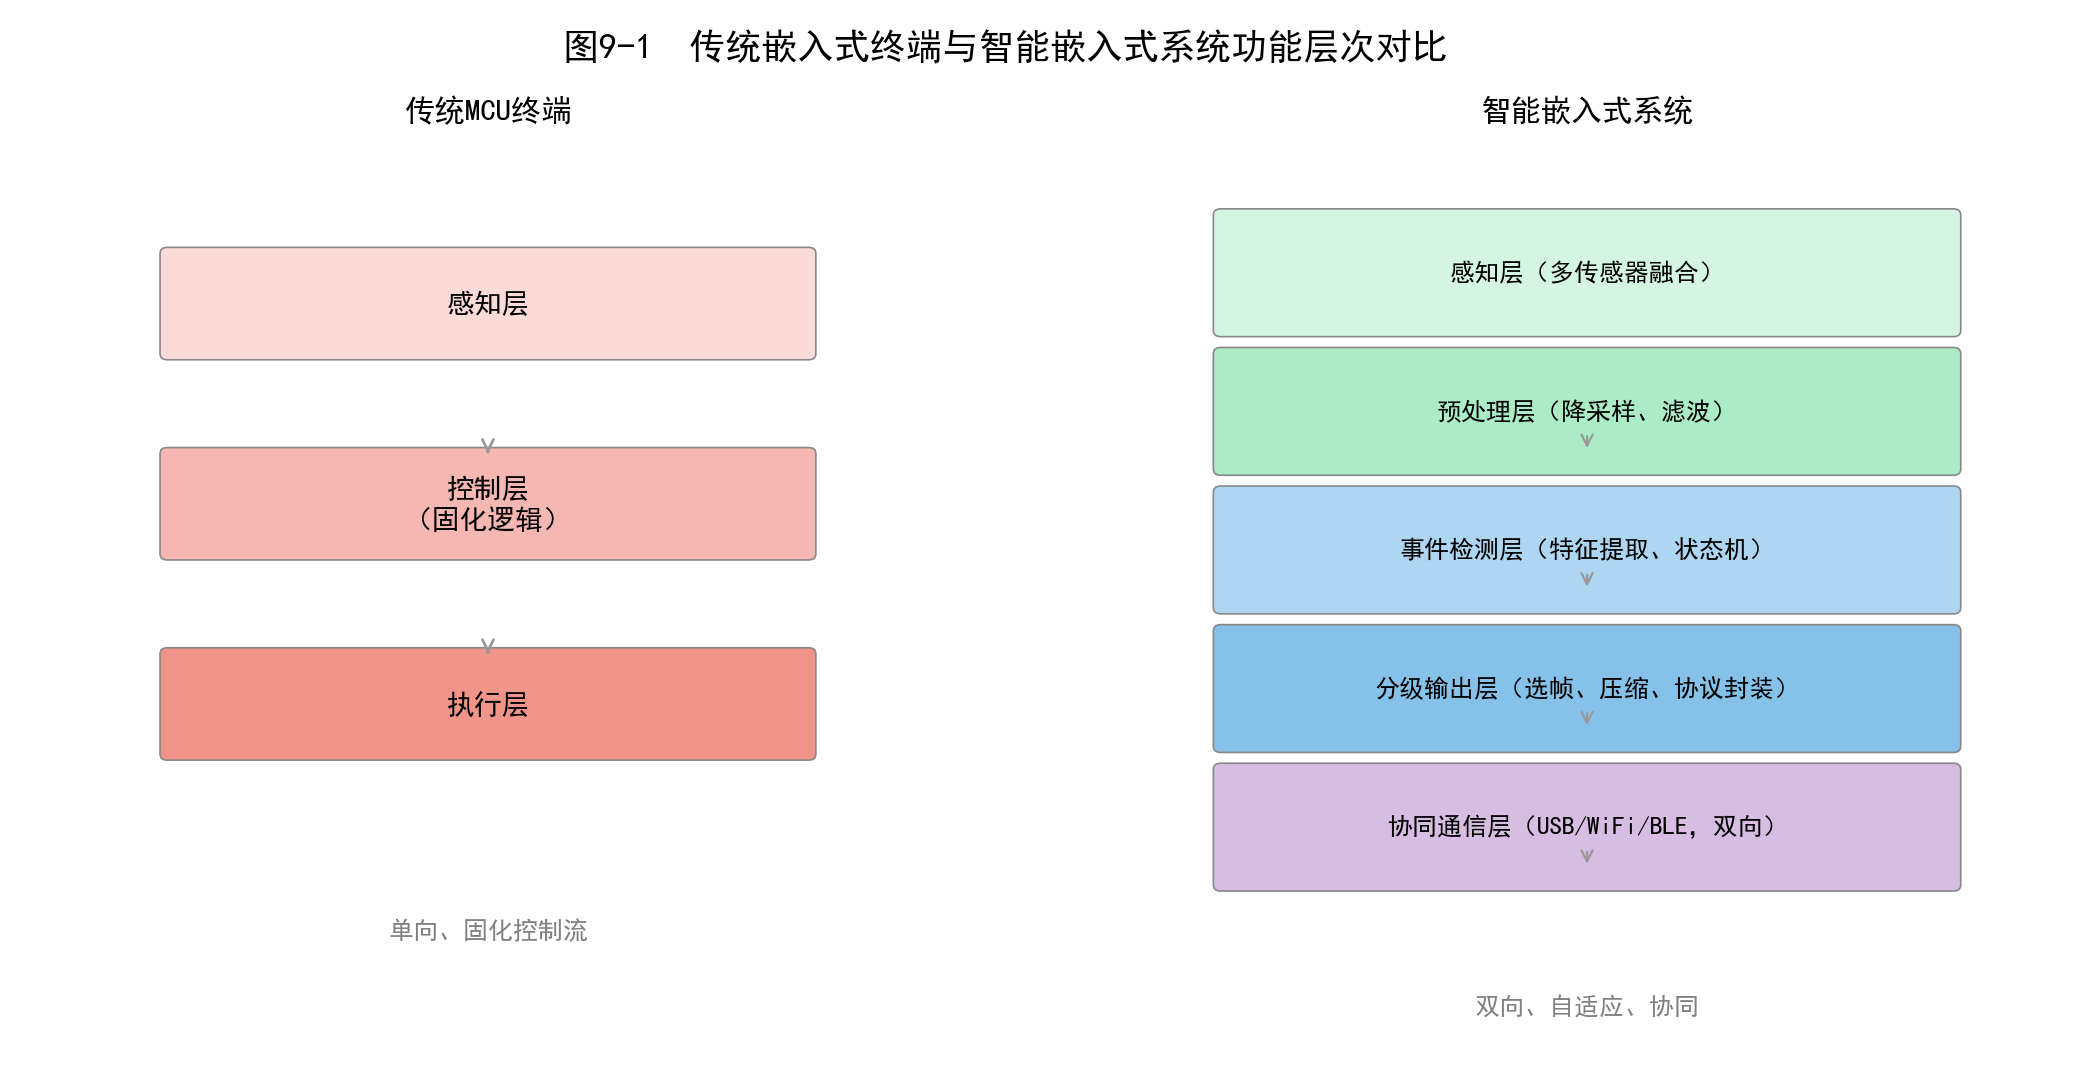
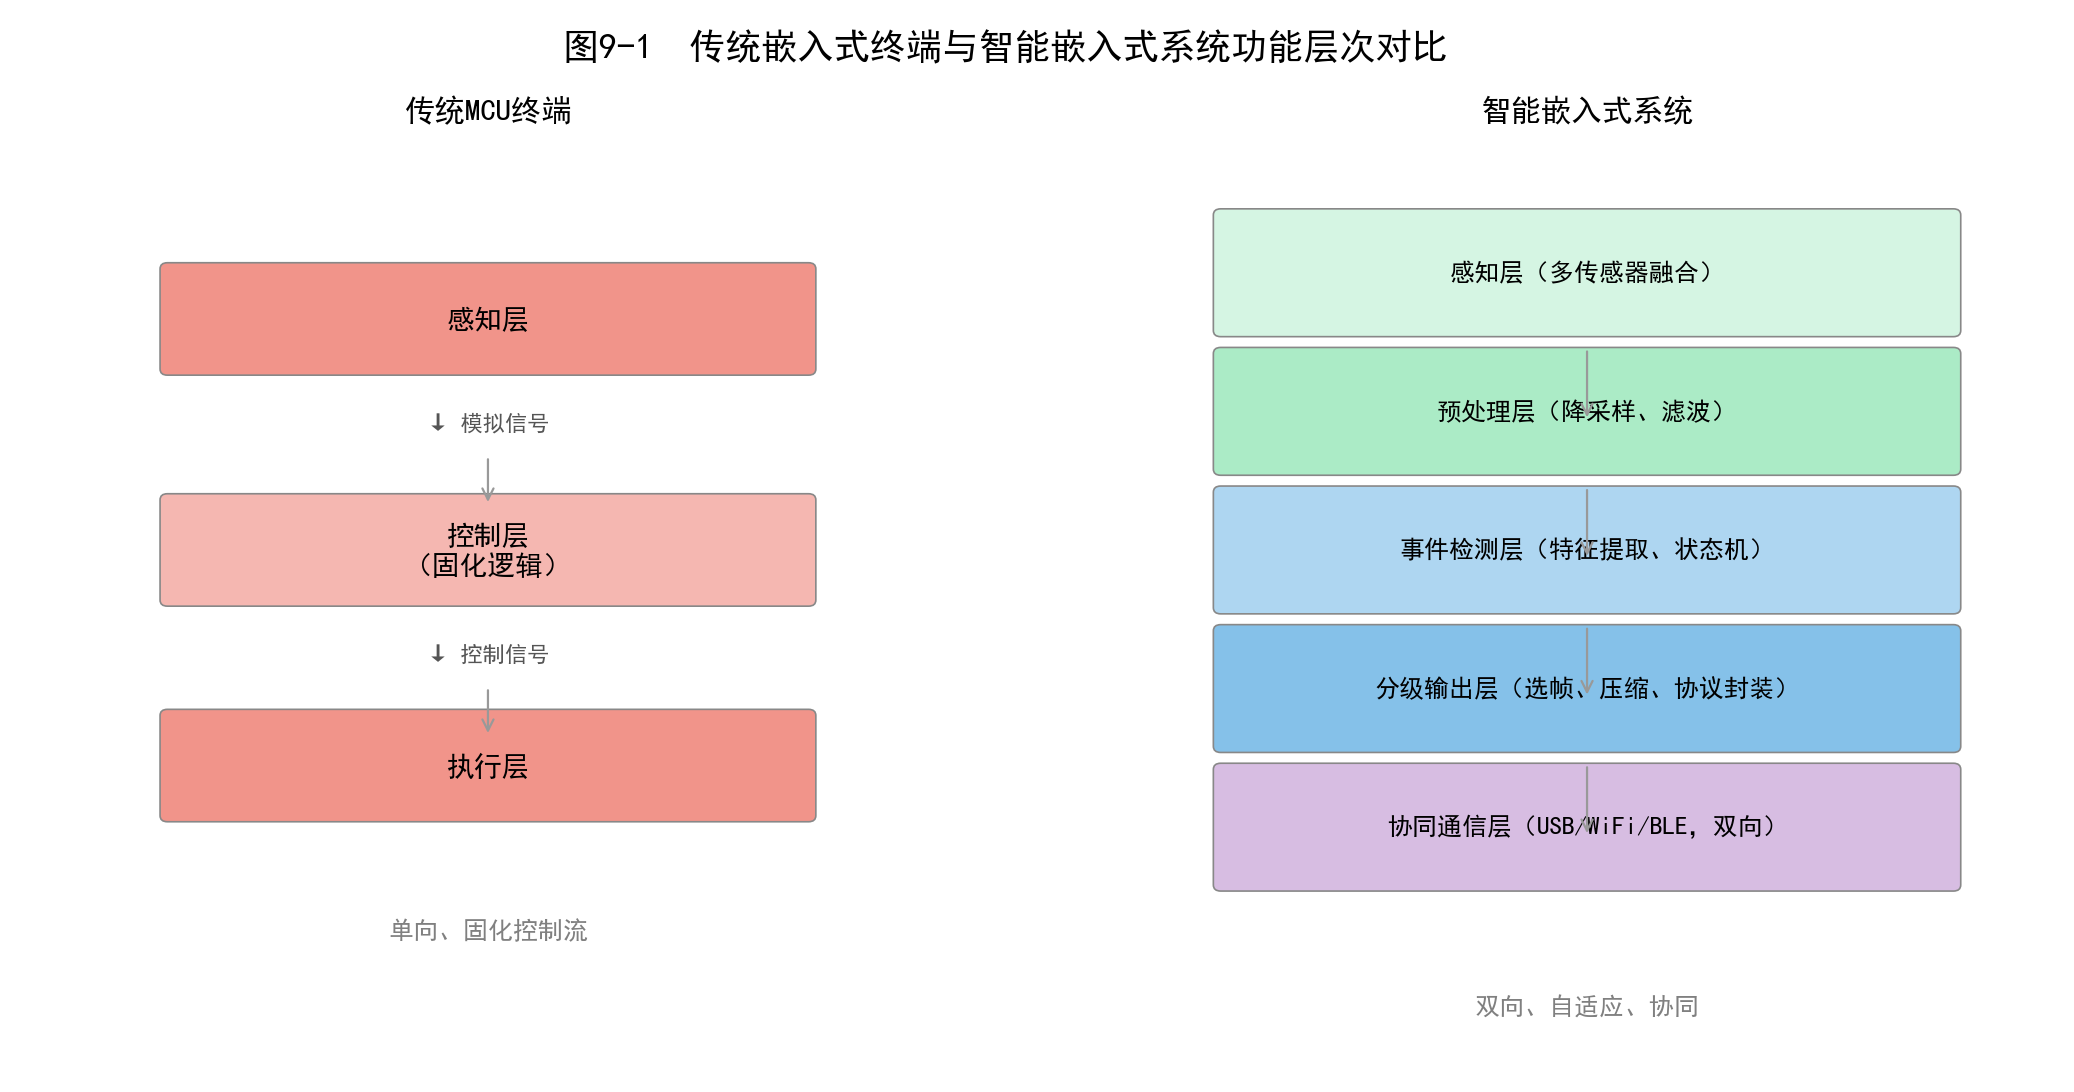
修复：图9-1还原v1层间箭头版本、图9-4 DSI标签可见性、图9-5箭头定位

diff --git a/tools/generate_figures.py b/tools/generate_figures.py
@@ -56,7 +56,7 @@ def arrow_right(ax, x1, x2, y, color="#555555", lw=1.0):
 
 
 # ============================================================
-# 图9-1 功能层次对比 — 保持良好，微调
+# 图9-1 功能层次对比 — 还原v1版本（带层间箭头标注）
 # ============================================================
 def fig_9_1():
     fig, (ax_l, ax_r) = plt.subplots(1, 2, figsize=(13, 6))
@@ -65,27 +65,31 @@ def fig_9_1():
     # 左侧
     ax_l.set_xlim(0, 10); ax_l.set_ylim(0, 12); ax_l.axis("off")
     ax_l.set_title("传统MCU终端", fontsize=11, weight="bold", pad=6)
-    items_l = [("感知层", 9.2, "#FADBD8"), ("控制层\n（固化逻辑）", 6.6, "#F5B7B1"), ("执行层", 4.0, "#F1948A")]
-    for txt, y, c in items_l:
-        box(ax_l, 1.5, y, 7, 1.3, txt, color=c, fontsize=10, bold=True)
-    arrow_down(ax_l, 5, 8.0, 7.9, "#999", 1.0)
-    arrow_down(ax_l, 5, 5.4, 5.3, "#999", 1.0)
+    # v1 原版：层间有箭头文字标注
+    box(ax_l, 1.5, 9, 7, 1.3, "感知层", color="#F1948A", fontsize=10, bold=True)
+    ax_l.text(5, 8.2, "↓ 模拟信号", ha="center", fontsize=8, color="#555")
+    arrow_down(ax_l, 5, 7.9, 7.2, "#999", 0.8)
+    box(ax_l, 1.5, 6, 7, 1.3, "控制层\n（固化逻辑）", color="#F5B7B1", fontsize=10, bold=True)
+    ax_l.text(5, 5.2, "↓ 控制信号", ha="center", fontsize=8, color="#555")
+    arrow_down(ax_l, 5, 4.9, 4.2, "#999", 0.8)
+    box(ax_l, 1.5, 3.2, 7, 1.3, "执行层", color="#F1948A", fontsize=10, bold=True)
     ax_l.text(5, 1.6, "单向、固化控制流", ha="center", fontsize=9, color="gray", style="italic")
 
     # 右侧
     ax_r.set_xlim(0, 10); ax_r.set_ylim(0, 12); ax_r.axis("off")
     ax_r.set_title("智能嵌入式系统", fontsize=11, weight="bold", pad=6)
-    items_r = [
+    right_items = [
         ("感知层（多传感器融合）", 9.5, "#D5F5E3"),
         ("预处理层（降采样、滤波）", 7.7, "#ABEBC6"),
         ("事件检测层（特征提取、状态机）", 5.9, "#AED6F1"),
         ("分级输出层（选帧、压缩、协议封装）", 4.1, "#85C1E9"),
         ("协同通信层（USB/WiFi/BLE，双向）", 2.3, "#D7BDE2"),
     ]
-    for txt, y, c in items_r:
+    for txt, y, c in right_items:
         box(ax_r, 1, y, 8, 1.5, txt, color=c, fontsize=9, bold=True)
-    for i in range(4):
-        arrow_down(ax_r, 5, 8.2 - i*1.8, 7.9 - i*1.8, "#999", 0.8)
+    # 层间箭头
+    for top_y in [9.3, 7.5, 5.7, 3.9]:
+        arrow_down(ax_r, 5, top_y, top_y-1.0, "#999", 0.8)
     ax_r.text(5, 0.6, "双向、自适应、协同", ha="center", fontsize=9, color="gray", style="italic")
 
     save(fig, "fig_9_1.png")
@@ -180,46 +184,46 @@ def fig_9_3():
 # 图9-4 高速外设数据流 — 修复标注重叠
 # ============================================================
 def fig_9_4():
-    fig, ax = plt.subplots(figsize=(16, 6))
-    ax.set_xlim(-1, 18); ax.set_ylim(0, 9.5); ax.axis("off")
+    fig, ax = plt.subplots(figsize=(16, 6.5))
+    ax.set_xlim(-1, 18); ax.set_ylim(0, 10.5); ax.axis("off")
     ax.set_title("图9-4  ESP32-P4高速外设带宽与数据流示意图", fontsize=13, weight="bold", y=0.97)
 
     # 传感器 — 左侧
-    box(ax, 0.5, 3.5, 2.8, 1.6, "OV5645\nCMOS传感器", color="#D5F5E3", fontsize=9, bold=True)
-    # 带宽标注放在传感器下方，避开重叠
-    ax.text(1.9, 3.0, "MIPI-CSI 2-lane\n数据率 ≈160Mbps", ha="center", fontsize=7, color="#1E8449",
-            bbox=dict(facecolor="white", alpha=0.8, edgecolor="none", pad=2))
+    box(ax, 0.5, 3.8, 2.8, 1.6, "OV5645\nCMOS传感器", color="#D5F5E3", fontsize=9, bold=True)
+    # 带宽标注放在传感器下方
+    ax.text(1.9, 3.3, "MIPI-CSI 2-lane\n数据率≈160Mbps", ha="center", fontsize=7, color="#1E8449",
+            bbox=dict(facecolor="white", alpha=0.85, edgecolor="none", pad=2))
 
     # SoC框
-    r = FancyBboxPatch((4.5, 1.2), 9.5, 7.0, boxstyle="round,pad=0.2",
+    r = FancyBboxPatch((4.5, 1.5), 9.5, 7.0, boxstyle="round,pad=0.2",
                        facecolor="#EBF5FB", edgecolor="#1A5276", linewidth=1.3, zorder=0)
     ax.add_patch(r)
-    ax.text(9.25, 7.8, "ESP32-P4 SoC", ha="center", fontsize=11, weight="bold", color="#1A5276")
+    ax.text(9.25, 8.1, "ESP32-P4 SoC", ha="center", fontsize=11, weight="bold", color="#1A5276")
 
     # SoC内部模块
-    box(ax, 5.2, 5.3, 2.2, 1.2, "MIPI D-PHY\n→ DMA", color="#FCF3CF", fontsize=8)
-    box(ax, 8.2, 5.3, 2.0, 1.2, "PSRAM\n帧缓冲", color="#FDEBD0", fontsize=8)
-    box(ax, 11.0, 5.3, 2.3, 1.2, "JPEG硬件\n编码器", color="#FADBD8", fontsize=8)
+    box(ax, 5.2, 5.5, 2.2, 1.2, "MIPI D-PHY\n→ DMA", color="#FCF3CF", fontsize=8)
+    box(ax, 8.2, 5.5, 2.0, 1.2, "PSRAM\n帧缓冲", color="#FDEBD0", fontsize=8)
+    box(ax, 11.0, 5.5, 2.3, 1.2, "JPEG硬件\n编码器", color="#FADBD8", fontsize=8)
 
-    arrow_right(ax, 7.45, 8.1, 5.9, "#555", 0.8)
-    arrow_right(ax, 10.25, 11.0, 5.9, "#555", 0.8)
+    arrow_right(ax, 7.45, 8.1, 6.1, "#555", 0.8)
+    arrow_right(ax, 10.25, 11.0, 6.1, "#555", 0.8)
 
     # USB输出路径
-    box(ax, 6.8, 2.5, 2.5, 1.2, "DMA → USB OTG", color="#FCF3CF", fontsize=8)
-    arrow(ax, 9.25, 5.2, 8.0, 3.8, "#888", 0.6)
+    box(ax, 6.8, 2.8, 2.5, 1.2, "DMA → USB OTG", color="#FCF3CF", fontsize=8)
+    arrow(ax, 9.25, 5.4, 8.0, 4.1, "#888", 0.6)
 
-    # Arrow 传感器→SoC
-    arrow(ax, 3.5, 4.3, 4.3, 4.3, "#1E8449", 1.2)
+    # 传感器→SoC箭头
+    arrow(ax, 3.5, 4.6, 4.3, 4.6, "#1E8449", 1.2)
 
     # 右侧输出 — USB
-    arrow(ax, 14.2, 5.9, 16.0, 5.9, "#922B21", 1.3)
-    ax.text(17.0, 5.9, "USB 2.0 HS\nCDC-ACM\n有效≈1MB/s", ha="center", fontsize=8, color="#922B21",
+    arrow(ax, 14.2, 6.1, 15.8, 6.1, "#922B21", 1.3)
+    ax.text(17.0, 6.1, "USB 2.0 HS\nCDC-ACM\n有效≈1MB/s", ha="center", fontsize=8, color="#922B21",
             bbox=dict(facecolor="white", alpha=0.7, edgecolor="none"))
 
-    # 上方输出 — DSI
-    arrow(ax, 9.25, 8.3, 9.25, 9.2, "#1A5276", 1.2)
-    ax.text(9.25, 9.5, "MIPI-DSI 1-lane, 720p LCD", ha="center", fontsize=8, color="#1A5276",
-            bbox=dict(facecolor="white", alpha=0.7, edgecolor="none"))
+    # 上方输出 — DSI (降低位置确保可见)
+    arrow(ax, 9.25, 8.6, 9.25, 9.4, "#1A5276", 1.2)
+    ax.text(9.25, 10.0, "MIPI-DSI 1-lane，720p LCD", ha="center", fontsize=8, color="#1A5276",
+            bbox=dict(facecolor="white", alpha=0.9, edgecolor="#AED6F1", pad=3))
 
     save(fig, "fig_9_4.png")
 
@@ -234,24 +238,24 @@ def fig_9_5():
 
     y = 22.5
     mid_x = 6.0
+    BOX_H = 0.8  # 模块框高度
+    GAP = 0.4    # 框间额外间距（箭头长度）
 
     # ROM Bootloader
-    box(ax, mid_x-2.5, y, 5, 0.9, "ROM Bootloader → Flash Bootloader", color="#D5D8DC", fontsize=10, bold=True)
-    arrow_down(ax, mid_x, y-0.05, y-1.0)
-    y -= 1.2
+    box(ax, mid_x-2.5, y, 5, BOX_H, "ROM Bootloader → Flash Bootloader", color="#D5D8DC", fontsize=10, bold=True)
+    arrow_down(ax, mid_x, y, y - GAP)
+    y = y - GAP
 
     # app_main
-    box(ax, mid_x-2.5, y, 5, 0.9, "app_main()", color="#AED6F1", fontsize=10, bold=True)
-    ax.text(0.8, y+0.3, "NVS初始化\n(含错误恢复)", fontsize=7, color="#1A5276", ha="center")
-    arrow_down(ax, mid_x, y-0.05, y-1.0)
-    y -= 1.2
+    box(ax, mid_x-2.5, y - BOX_H, 5, BOX_H, "app_main()", color="#AED6F1", fontsize=10, bold=True)
+    ax.text(0.8, y - BOX_H/2, "NVS初始化\n(含错误恢复)", fontsize=7, color="#1A5276", ha="center")
+    arrow_down(ax, mid_x, y - BOX_H, y - BOX_H - GAP)
+    y = y - BOX_H - GAP
 
     # app_start
-    box(ax, mid_x-2.5, y, 5, 0.9, "app_start()", color="#AED6F1", fontsize=10, bold=True)
-    # 向下箭头
-    ax.annotate("", xy=(mid_x, y-0.6), xytext=(mid_x, y-0.05),
-                arrowprops=dict(arrowstyle="->", color="#555", lw=1))
-    y -= 1.5
+    box(ax, mid_x-2.5, y - BOX_H, 5, BOX_H, "app_start()", color="#AED6F1", fontsize=10, bold=True)
+    arrow_down(ax, mid_x, y - BOX_H, y - BOX_H - GAP)
+    y = y - BOX_H - GAP
 
     mods = [
         ("bsp_init", "板级支持包", "#D5F5E3"),
@@ -265,15 +269,17 @@ def fig_9_5():
         ("diag_start", "诊断模块", "#D5D8DC"),
     ]
 
-    for func, desc, color in mods:
+    for i, (func, desc, color) in enumerate(mods):
         is_disp = "display" in func
+        is_last = (i == len(mods) - 1)
         ls = "dashed" if is_disp else "solid"
-        # 模块框
-        r = FancyBboxPatch((mid_x-3.5, y-0.4), 7, 0.8, boxstyle="round,pad=0.05",
+
+        # 框：左下角 (mid_x-3.5, y - BOX_H)
+        r = FancyBboxPatch((mid_x-3.5, y - BOX_H), 7, BOX_H, boxstyle="round,pad=0.05",
                            facecolor=color, edgecolor="#888", linewidth=0.7, linestyle=ls, zorder=2)
         ax.add_patch(r)
-        ax.text(mid_x-3.0, y, func, fontsize=9, weight="bold", va="center", zorder=3)
-        ax.text(mid_x+0.8, y, desc, fontsize=8, va="center", color="#555", zorder=3)
+        ax.text(mid_x-3.0, y - BOX_H/2, func, fontsize=9, weight="bold", va="center", zorder=3)
+        ax.text(mid_x+0.8, y - BOX_H/2, desc, fontsize=8, va="center", color="#555", zorder=3)
 
         # 错误处理策略
         if is_disp:
@@ -282,15 +288,16 @@ def fig_9_5():
         else:
             err_txt = "ESP_RETURN_\nON_ERROR"
             err_bg = "#FADBD8"
-        ax.text(10.8, y, err_txt, fontsize=6.5, va="center", ha="center", color="#922B21",
+        ax.text(10.8, y - BOX_H/2, err_txt, fontsize=6.5, va="center", ha="center", color="#922B21",
                 bbox=dict(boxstyle="round,pad=0.2", facecolor=err_bg, alpha=0.8, edgecolor="none"), zorder=3)
 
-        # 箭头 (非display模块用实线，display用虚线)
-        if not is_disp:
-            arrow_down(ax, mid_x, y-0.5, y-1.0)
-        else:
-            ax.plot([mid_x, mid_x], [y-0.5, y-1.0], color="#888", lw=0.8, linestyle="dashed")
-        y -= 1.0
+        # 箭头：从框底到下一框顶（最后一个模块后不画箭头）
+        if not is_last:
+            if not is_disp:
+                arrow(ax, mid_x, y - BOX_H, mid_x, y - BOX_H - GAP)
+            else:
+                ax.plot([mid_x, mid_x], [y - BOX_H, y - BOX_H - GAP], color="#888", lw=0.8, linestyle="dashed")
+            y = y - BOX_H - GAP
 
     save(fig, "fig_9_5.png")
 
